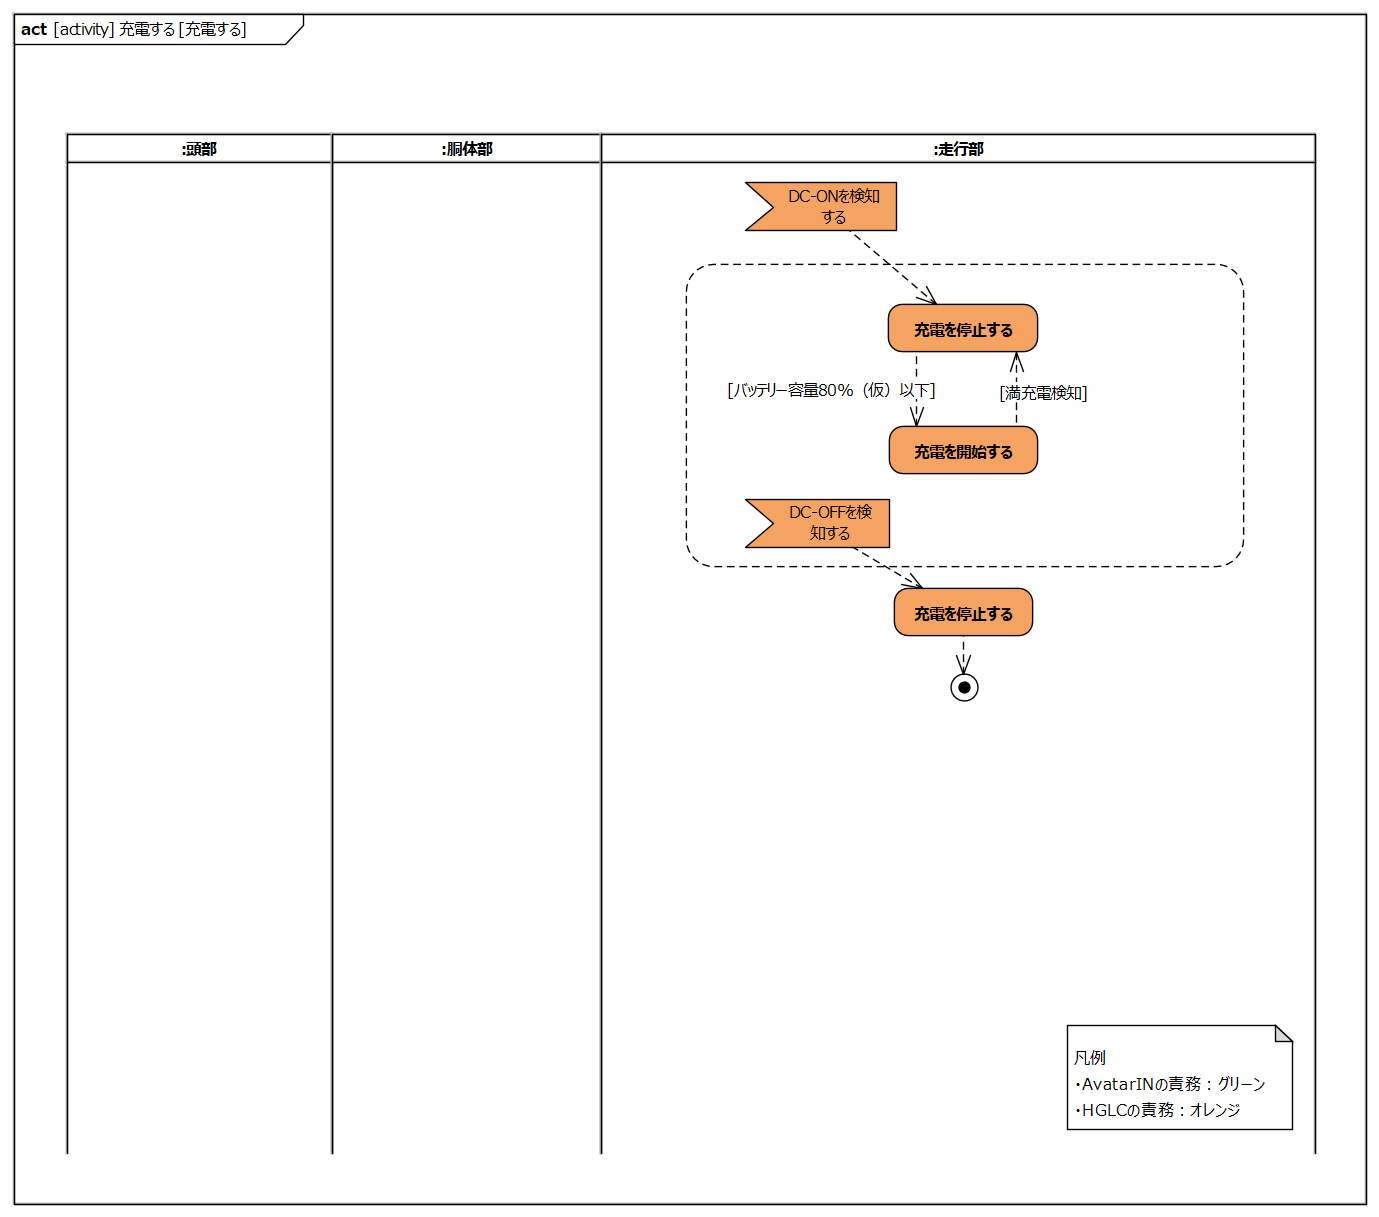
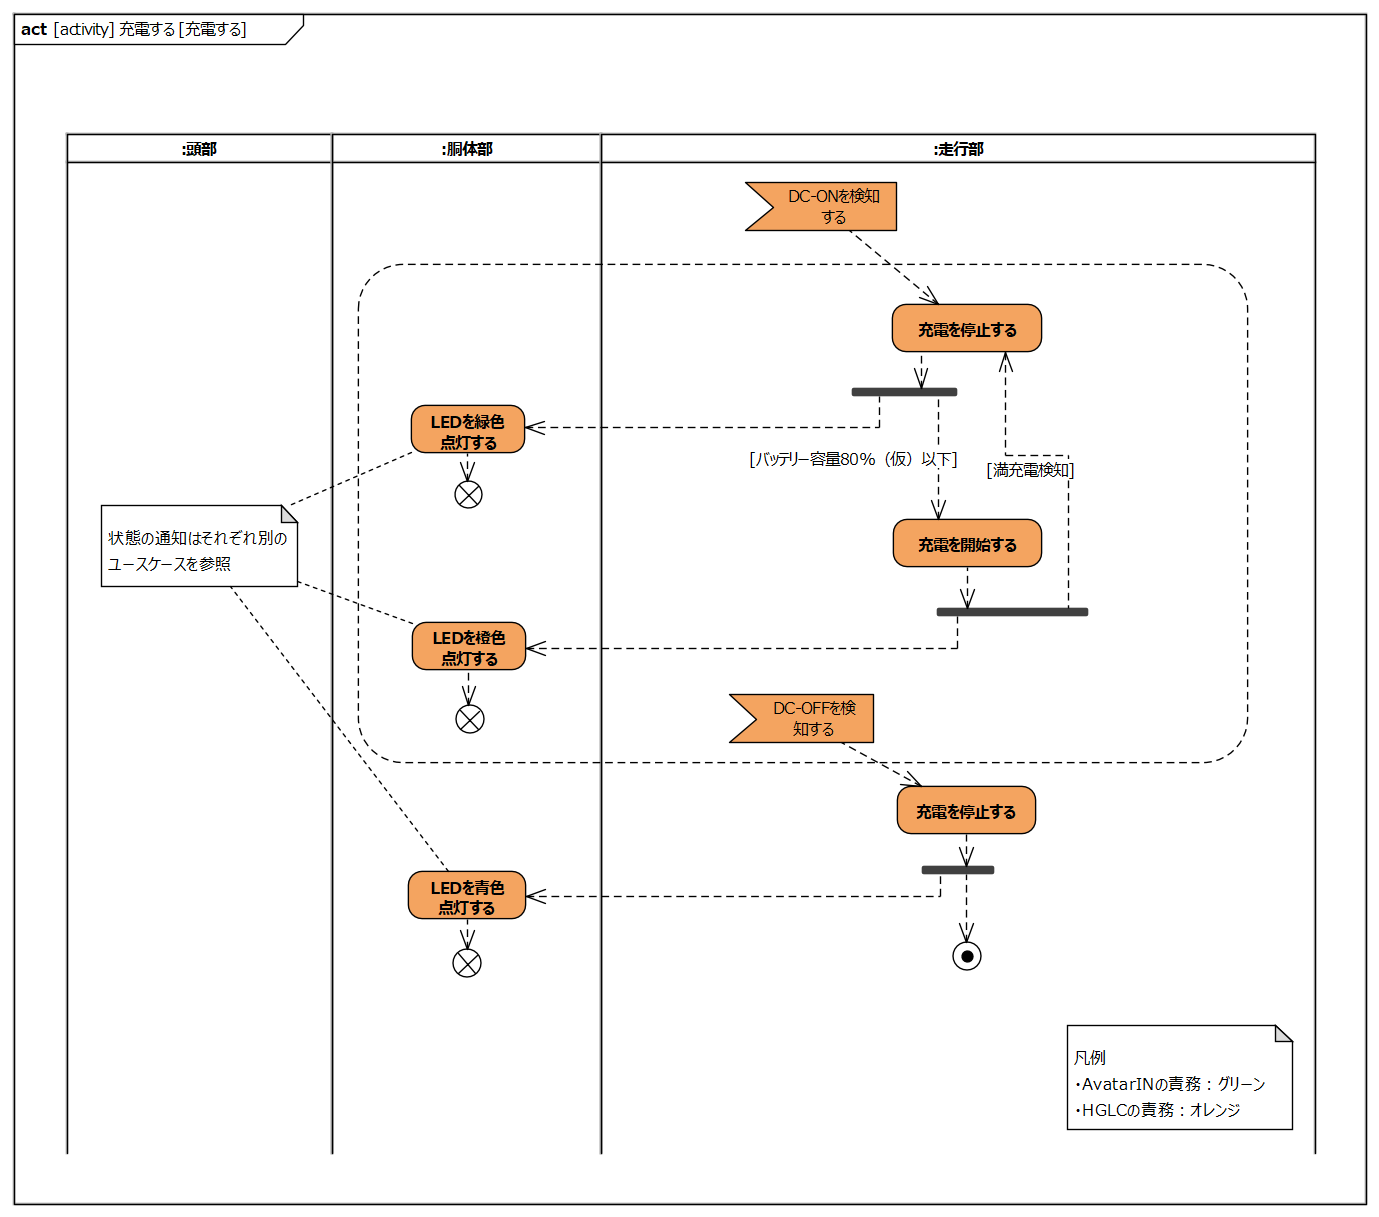
指摘事項の修正

diff --git a/requirements/requirement.md b/requirements/requirement.md
@@ -1292,8 +1292,11 @@ YES動作コマンドは首垂直動作に依存し、NO動作コマンドは首
 
 |要求|備考|
 |:---|:---|
-|走行部は充電を停止する||
-|走行部は充電を開始する||
+|走行部は充電を停止する|満充電を検知したとき or DC-OFFを検知したとき|
+|胴体部はLEDを緑色点灯する||
+|走行部は充電を開始する|DC-ON時に充電するが、バッテリー容量80%（仮）以下の時に充電を開始する|
+|胴体部はLEDを橙色点灯する||
+|胴体部はLEDを青色点灯する||
 
 <!-- <div style="page-break-before:always"></div>
 
